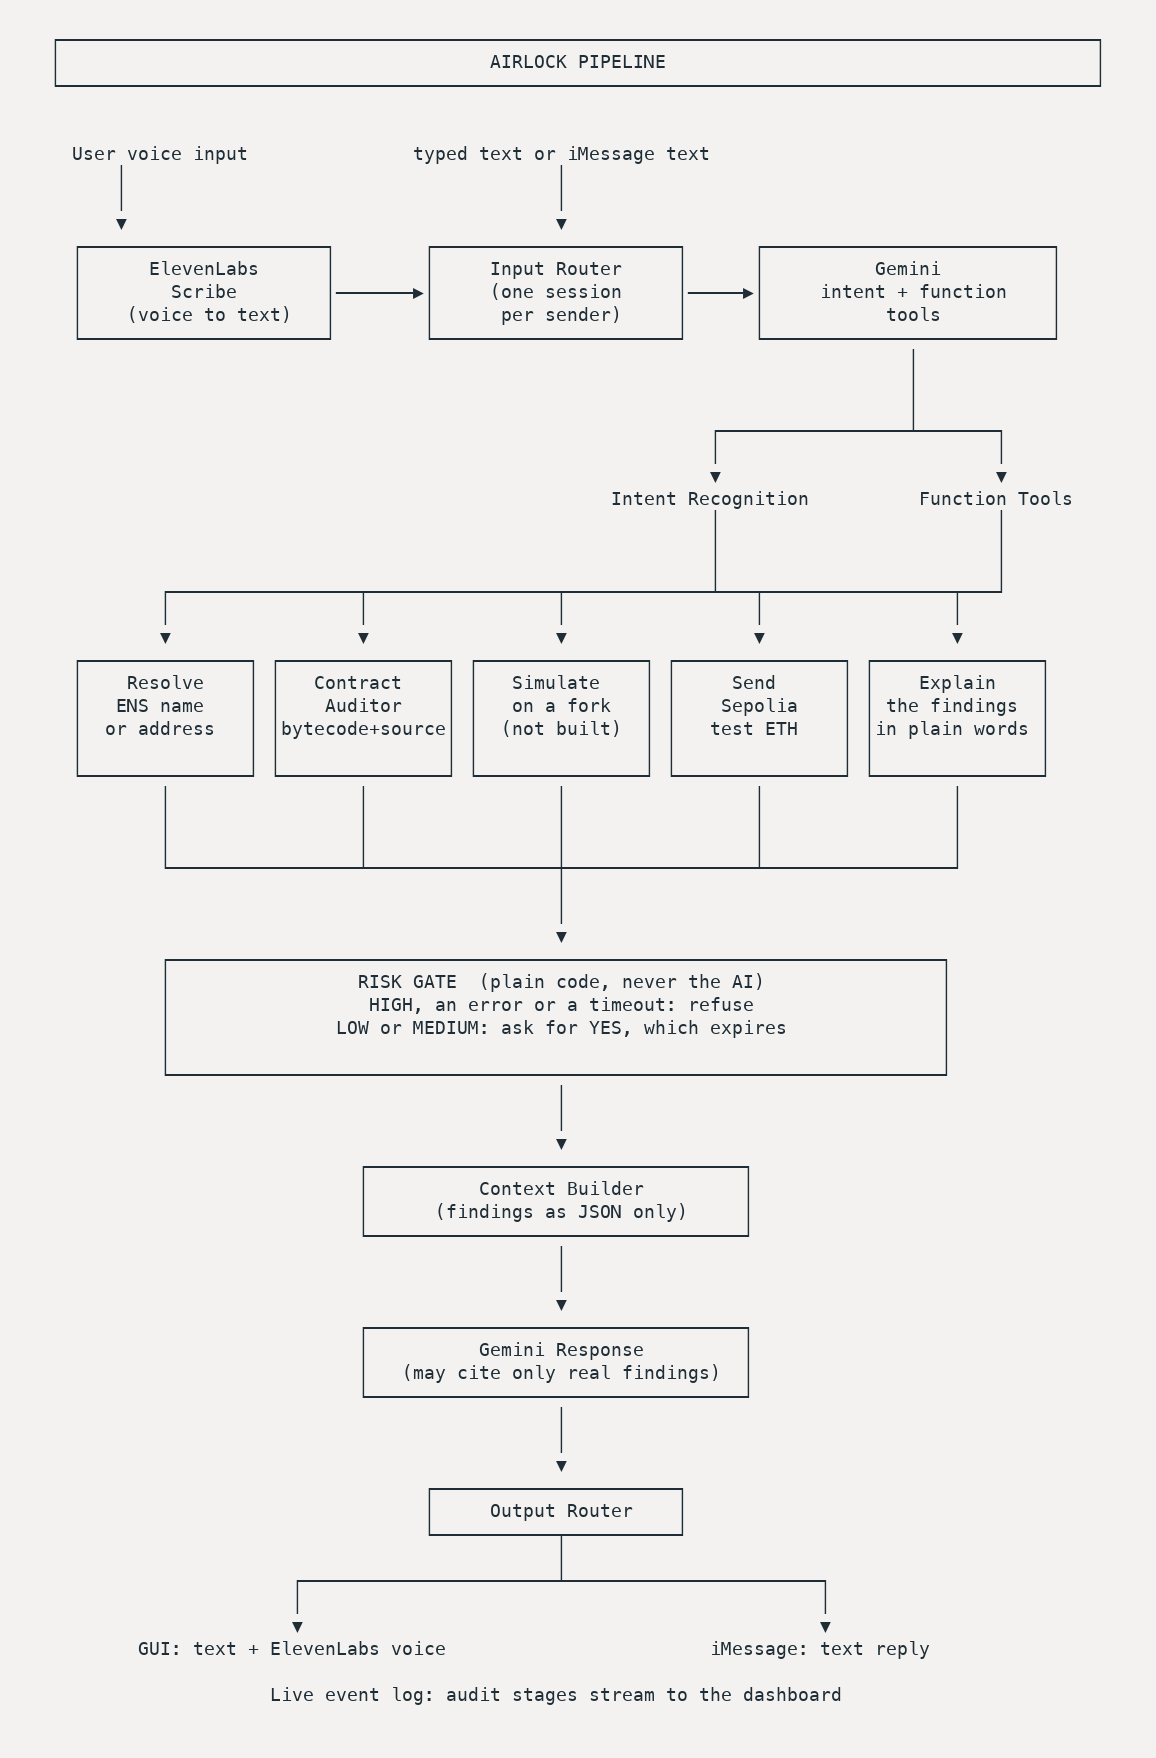
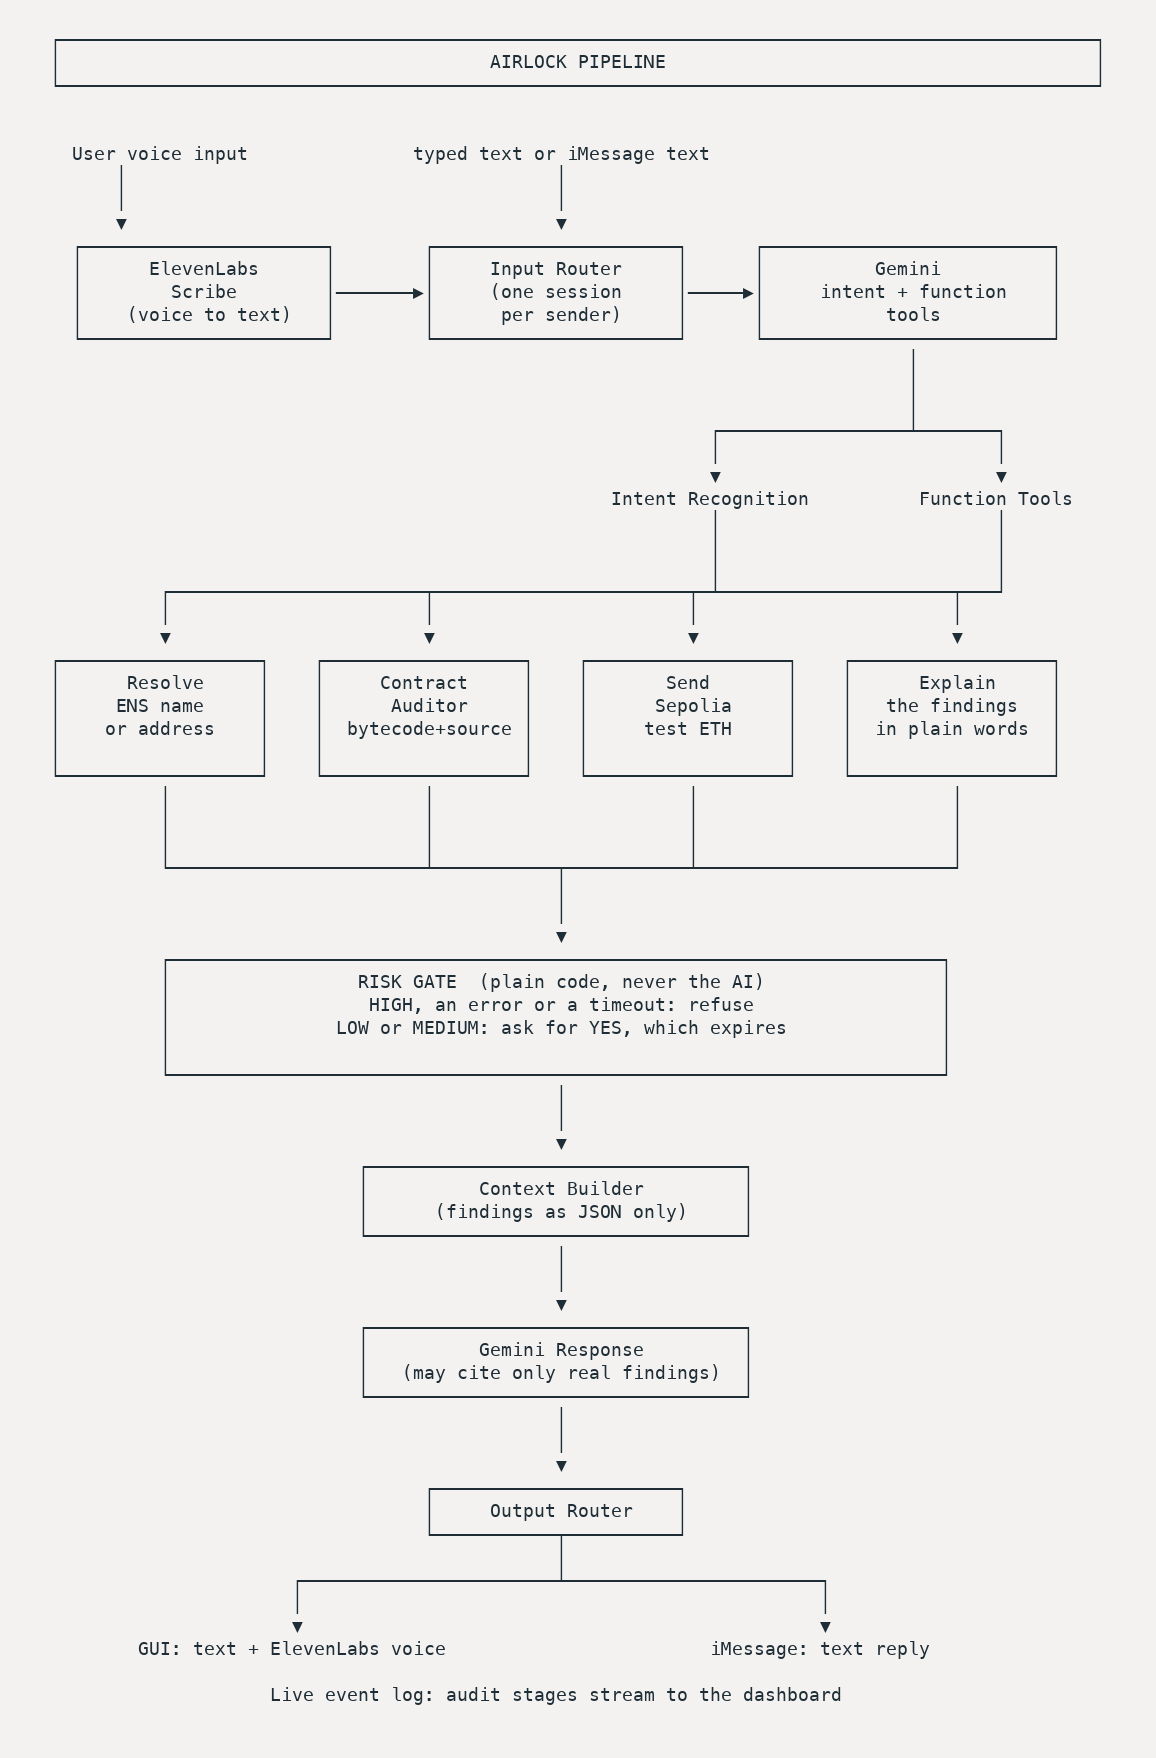
How we work: the structure diagram is real SVG in the page's own colour and font (no picture, card or border); Simulate box and caption removed

Changed region(s): [[0.218, 0.3686, 0.5294, 0.4608], [0.5606, 0.3686, 0.6851, 0.43], [0.9031, 0.3686, 0.9343, 0.43]]

diff --git a/app/components/PipelineDiagram.tsx b/app/components/PipelineDiagram.tsx
@@ -1,0 +1,74 @@
+// Generated by video/diagram/make_pipeline_svg.py from the layout in make_pipeline_image.py. Do not edit by hand.
+// The structure of the project (the pipeline in docs/PLAN.md), drawn in the style of Otto's voice pipeline. It is real SVG
+// in the page's own colour and font, so it follows light and dark mode and has no picture, card or border around it.
+
+export function PipelineDiagram() {
+  return (
+    <svg
+      viewBox="0 0 1128 1730"
+      role="img"
+      aria-label="The Airlock pipeline. Voice goes through ElevenLabs Scribe, and typed or iMessage text goes straight, into the input router, then Gemini for intent and function tools. Four tools follow: resolve, contract auditor, send and explain. Then the risk gate, the context builder, Gemini's response and the output router, which answers in the GUI with voice, or by iMessage text. A live event log streams the audit stages to the dashboard."
+      className="h-auto w-full text-foreground"
+    >
+      <path d="M41.5 25.5L1086.5 25.5 M41.5 71.5L1086.5 71.5 M63.5 232.5L316.5 232.5 M415.5 232.5L668.5 232.5 M745.5 232.5L1042.5 232.5 M327.5 278.5L404.5 278.5 M679.5 278.5L734.5 278.5 M63.5 324.5L316.5 324.5 M415.5 324.5L668.5 324.5 M745.5 324.5L1042.5 324.5 M701.5 416.5L987.5 416.5 M151.5 577.5L987.5 577.5 M41.5 646.5L250.5 646.5 M305.5 646.5L514.5 646.5 M569.5 646.5L778.5 646.5 M833.5 646.5L1042.5 646.5 M41.5 761.5L250.5 761.5 M305.5 761.5L514.5 761.5 M569.5 761.5L778.5 761.5 M833.5 761.5L1042.5 761.5 M151.5 853.5L943.5 853.5 M151.5 945.5L932.5 945.5 M151.5 1060.5L932.5 1060.5 M349.5 1152.5L734.5 1152.5 M349.5 1221.5L734.5 1221.5 M349.5 1313.5L734.5 1313.5 M349.5 1382.5L734.5 1382.5 M415.5 1474.5L668.5 1474.5 M415.5 1520.5L668.5 1520.5 M283.5 1566.5L811.5 1566.5 M41.5 25.5L41.5 71.5 M41.5 646.5L41.5 761.5 M63.5 232.5L63.5 324.5 M107.5 163.5L107.5 186.5 M151.5 577.5L151.5 600.5 M151.5 784.5L151.5 853.5 M151.5 945.5L151.5 1060.5 M250.5 646.5L250.5 761.5 M283.5 1566.5L283.5 1589.5 M305.5 646.5L305.5 761.5 M316.5 232.5L316.5 324.5 M349.5 1152.5L349.5 1221.5 M349.5 1313.5L349.5 1382.5 M415.5 232.5L415.5 324.5 M415.5 577.5L415.5 600.5 M415.5 784.5L415.5 853.5 M415.5 1474.5L415.5 1520.5 M514.5 646.5L514.5 761.5 M547.5 163.5L547.5 186.5 M547.5 853.5L547.5 899.5 M547.5 1083.5L547.5 1106.5 M547.5 1244.5L547.5 1267.5 M547.5 1405.5L547.5 1428.5 M547.5 1520.5L547.5 1566.5 M569.5 646.5L569.5 761.5 M668.5 232.5L668.5 324.5 M668.5 1474.5L668.5 1520.5 M679.5 577.5L679.5 600.5 M679.5 784.5L679.5 853.5 M701.5 416.5L701.5 439.5 M701.5 508.5L701.5 577.5 M734.5 1152.5L734.5 1221.5 M734.5 1313.5L734.5 1382.5 M745.5 232.5L745.5 324.5 M778.5 646.5L778.5 761.5 M811.5 1566.5L811.5 1589.5 M833.5 646.5L833.5 761.5 M899.5 347.5L899.5 416.5 M932.5 945.5L932.5 1060.5 M943.5 577.5L943.5 600.5 M943.5 784.5L943.5 853.5 M987.5 416.5L987.5 439.5 M987.5 508.5L987.5 577.5 M1042.5 232.5L1042.5 324.5 M1042.5 646.5L1042.5 761.5 M1086.5 25.5L1086.5 71.5" fill="none" stroke="currentColor" strokeWidth={1.6} strokeLinecap="square" />
+      <g fill="currentColor">
+        <polygon points="101.5,204.5 113.5,204.5 107.5,215.5" />
+        <polygon points="541.5,204.5 553.5,204.5 547.5,215.5" />
+        <polygon points="399.5,272.5 399.5,284.5 410.5,278.5" />
+        <polygon points="729.5,272.5 729.5,284.5 740.5,278.5" />
+        <polygon points="695.5,457.5 707.5,457.5 701.5,468.5" />
+        <polygon points="981.5,457.5 993.5,457.5 987.5,468.5" />
+        <polygon points="145.5,618.5 157.5,618.5 151.5,629.5" />
+        <polygon points="409.5,618.5 421.5,618.5 415.5,629.5" />
+        <polygon points="673.5,618.5 685.5,618.5 679.5,629.5" />
+        <polygon points="937.5,618.5 949.5,618.5 943.5,629.5" />
+        <polygon points="541.5,917.5 553.5,917.5 547.5,928.5" />
+        <polygon points="541.5,1124.5 553.5,1124.5 547.5,1135.5" />
+        <polygon points="541.5,1285.5 553.5,1285.5 547.5,1296.5" />
+        <polygon points="541.5,1446.5 553.5,1446.5 547.5,1457.5" />
+        <polygon points="277.5,1607.5 289.5,1607.5 283.5,1618.5" />
+        <polygon points="805.5,1607.5 817.5,1607.5 811.5,1618.5" />
+      </g>
+      <g fill="currentColor" fontSize={16.5} fontFamily="var(--font-geist-mono), ui-monospace, Menlo, monospace">
+        <text x="476.0" y="53.5" textLength="176" lengthAdjust="spacing">AIRLOCK PIPELINE</text>
+        <text x="58.0" y="145.5" textLength="176" lengthAdjust="spacing">User voice input</text>
+        <text x="399.0" y="145.5" textLength="297" lengthAdjust="spacing">typed text or iMessage text</text>
+        <text x="135.0" y="260.5" textLength="110" lengthAdjust="spacing">ElevenLabs</text>
+        <text x="476.0" y="260.5" textLength="132" lengthAdjust="spacing">Input Router</text>
+        <text x="861.0" y="260.5" textLength="66" lengthAdjust="spacing">Gemini</text>
+        <text x="157.0" y="283.5" textLength="66" lengthAdjust="spacing">Scribe</text>
+        <text x="476.0" y="283.5" textLength="132" lengthAdjust="spacing">(one session</text>
+        <text x="806.0" y="283.5" textLength="187" lengthAdjust="spacing">intent + function</text>
+        <text x="113.0" y="306.5" textLength="165" lengthAdjust="spacing">(voice to text)</text>
+        <text x="487.0" y="306.5" textLength="121" lengthAdjust="spacing">per sender)</text>
+        <text x="872.0" y="306.5" textLength="55" lengthAdjust="spacing">tools</text>
+        <text x="597.0" y="490.5" textLength="198" lengthAdjust="spacing">Intent Recognition</text>
+        <text x="905.0" y="490.5" textLength="154" lengthAdjust="spacing">Function Tools</text>
+        <text x="113.0" y="674.5" textLength="77" lengthAdjust="spacing">Resolve</text>
+        <text x="366.0" y="674.5" textLength="88" lengthAdjust="spacing">Contract</text>
+        <text x="652.0" y="674.5" textLength="44" lengthAdjust="spacing">Send</text>
+        <text x="905.0" y="674.5" textLength="77" lengthAdjust="spacing">Explain</text>
+        <text x="102.0" y="697.5" textLength="88" lengthAdjust="spacing">ENS name</text>
+        <text x="377.0" y="697.5" textLength="77" lengthAdjust="spacing">Auditor</text>
+        <text x="641.0" y="697.5" textLength="77" lengthAdjust="spacing">Sepolia</text>
+        <text x="872.0" y="697.5" textLength="132" lengthAdjust="spacing">the findings</text>
+        <text x="91.0" y="720.5" textLength="110" lengthAdjust="spacing">or address</text>
+        <text x="333.0" y="720.5" textLength="165" lengthAdjust="spacing">bytecode+source</text>
+        <text x="630.0" y="720.5" textLength="88" lengthAdjust="spacing">test ETH</text>
+        <text x="861.0" y="720.5" textLength="154" lengthAdjust="spacing">in plain words</text>
+        <text x="344.0" y="973.5" textLength="99" lengthAdjust="spacing">RISK GATE</text>
+        <text x="465.0" y="973.5" textLength="286" lengthAdjust="spacing">(plain code, never the AI)</text>
+        <text x="355.0" y="996.5" textLength="385" lengthAdjust="spacing">HIGH, an error or a timeout: refuse</text>
+        <text x="322.0" y="1019.5" textLength="451" lengthAdjust="spacing">LOW or MEDIUM: ask for YES, which expires</text>
+        <text x="465.0" y="1180.5" textLength="165" lengthAdjust="spacing">Context Builder</text>
+        <text x="421.0" y="1203.5" textLength="253" lengthAdjust="spacing">(findings as JSON only)</text>
+        <text x="465.0" y="1341.5" textLength="165" lengthAdjust="spacing">Gemini Response</text>
+        <text x="388.0" y="1364.5" textLength="319" lengthAdjust="spacing">(may cite only real findings)</text>
+        <text x="476.0" y="1502.5" textLength="143" lengthAdjust="spacing">Output Router</text>
+        <text x="124.0" y="1640.5" textLength="308" lengthAdjust="spacing">GUI: text + ElevenLabs voice</text>
+        <text x="696.0" y="1640.5" textLength="220" lengthAdjust="spacing">iMessage: text reply</text>
+        <text x="256.0" y="1686.5" textLength="572" lengthAdjust="spacing">Live event log: audit stages stream to the dashboard</text>
+      </g>
+    </svg>
+  );
+}

diff --git a/app/components/HowWeWork.tsx b/app/components/HowWeWork.tsx
@@ -1,6 +1,7 @@
 "use client";
 
 import { useState } from "react";
+import { PipelineDiagram } from "./PipelineDiagram";
 
 // The text judges and readers get. Kept in one place so the page and the copy button never drift apart.
 export const SUBMISSION_PARAGRAPH =
@@ -43,20 +44,14 @@ function Label({ children }: { children: React.ReactNode }) {
 }
 
 
-// The structure of the project: the pipeline from docs/PLAN.md, drawn in the same box-and-arrow style as Otto's voice pipeline.
-// The picture is public/airlock-pipeline.png (made by video/diagram/make_pipeline_image.py).
+// The structure of the project: the pipeline from docs/PLAN.md, as real SVG in the page's own colour and font.
 function Structure() {
   return (
     <section aria-label="The structure of the project" className="space-y-4">
-      <div className="flex items-end justify-between">
-        <Label>The structure</Label>
-        <a href="/airlock-pipeline.png" download="Airlock pipeline.png" className="rounded-lg border border-border px-3 py-1.5 text-sm hover:bg-accent">Download the picture</a>
-      </div>
-      {/* A transparent picture with no card around it, so it sits on the page like the rest. In dark mode the ink is flipped to light. */}
-      <figure className="mx-auto w-full max-w-3xl">
-        {/* eslint-disable-next-line @next/next/no-img-element */}
-        <img src="/airlock-pipeline.png" alt="The Airlock pipeline: voice, text or iMessage input goes through the input router to Gemini, then to five tools (resolve, contract auditor, simulate, send, explain), then to the risk gate, the context builder, Gemini's response and the output router, which answers in the GUI or by iMessage." className="h-auto w-full [.dark_&]:invert" />
-        <figcaption className="mt-4 text-center text-xs text-muted-foreground">Drawn from docs/PLAN.md. The model never decides whether money moves; the gate does. Simulate is the one box that was not built.</figcaption>
+      <Label>The structure</Label>
+      <figure className="mx-auto w-full max-w-4xl">
+        <PipelineDiagram />
+        <figcaption className="mt-4 text-center text-xs text-muted-foreground">Drawn from docs/PLAN.md. The model never decides whether money moves; the gate does.</figcaption>
       </figure>
     </section>
   );

diff --git a/video/diagram/make_pipeline_svg.py b/video/diagram/make_pipeline_svg.py
@@ -1,0 +1,103 @@
+#!/usr/bin/env python3
+"""Turns the pipeline layout in make_pipeline_image.py into a React component (app/components/PipelineDiagram.tsx):
+real SVG lines and text in the page's own colour and font, so the diagram is part of the website, not a picture.
+Run: python3 video/diagram/make_pipeline_svg.py"""
+import os
+
+HERE = os.path.dirname(os.path.abspath(__file__))
+src = open(os.path.join(HERE, "make_pipeline_image.py")).read().split("# ---- render ----")[0]
+ns = {}
+exec(src, ns)  # builds `lines` (direction bits per cell) and `text` (one character per cell)
+lines, text, COLS, ROWS = ns["lines"], ns["text"], ns["COLS"], ns["ROWS"]
+E, S = ns["E"], ns["S"]
+
+CW, CH, PAD = 11, 23, 14
+W, H = COLS * CW + PAD * 2, ROWS * CH + PAD * 2
+cx = lambda x: PAD + x * CW + CW / 2
+cy = lambda y: PAD + y * CH + CH / 2
+
+# ---- line segments, merged into long runs ----
+segs = []
+for y in range(ROWS):  # horizontal runs
+    x = 0
+    while x < COLS:
+        if lines.get((x, y), 0) & E:
+            x0 = x
+            while lines.get((x, y), 0) & E:
+                x += 1
+            segs.append((cx(x0), cy(y), cx(x), cy(y)))
+        else:
+            x += 1
+for x in range(COLS):  # vertical runs
+    y = 0
+    while y < ROWS:
+        if lines.get((x, y), 0) & S:
+            y0 = y
+            while lines.get((x, y), 0) & S:
+                y += 1
+            segs.append((cx(x), cy(y0), cx(x), cy(y)))
+        else:
+            y += 1
+path = " ".join(f"M{a:.1f} {b:.1f}L{c:.1f} {d:.1f}" for a, b, c, d in segs)
+
+# ---- arrows and text runs ----
+arrows = []
+runs = []
+for y in range(ROWS):
+    x = 0
+    while x < COLS:
+        ch = text.get((x, y))
+        if ch in ("▼", "▶"):
+            arrows.append((ch, x, y))
+            x += 1
+        elif ch:
+            x0, s = x, ""
+            while text.get((x, y)) and text[(x, y)] not in ("▼", "▶"):
+                s += text[(x, y)]
+                x += 1
+            runs.append((x0, y, s))
+        else:
+            x += 1
+
+poly = []
+for ch, x, y in arrows:
+    a, b = cx(x), cy(y)
+    pts = [(a - 6, b - 5), (a + 6, b - 5), (a, b + 6)] if ch == "▼" else [(a - 5, b - 6), (a - 5, b + 6), (a + 6, b)]
+    poly.append(" ".join(f"{p:.1f},{q:.1f}" for p, q in pts))
+
+import re
+
+texts = []
+for x0, y, s in runs:
+    # SVG collapses runs of spaces, which would throw off the spacing. So each stretch of words joined by single
+    # spaces is its own <text>, placed at its exact column, with no leading or trailing space.
+    for m in re.finditer(r"\S+(?: \S+)*", s):
+        seg = m.group(0)
+        texts.append(f'        <text x="{PAD + (x0 + m.start()) * CW:.1f}" y="{PAD + y * CH + 16.5:.1f}" textLength="{len(seg) * CW}" lengthAdjust="spacing">{seg}</text>')
+
+tsx = f'''// Generated by video/diagram/make_pipeline_svg.py from the layout in make_pipeline_image.py. Do not edit by hand.
+// The structure of the project (the pipeline in docs/PLAN.md), drawn in the style of Otto's voice pipeline. It is real SVG
+// in the page's own colour and font, so it follows light and dark mode and has no picture, card or border around it.
+
+export function PipelineDiagram() {{
+  return (
+    <svg
+      viewBox="0 0 {W} {H}"
+      role="img"
+      aria-label="The Airlock pipeline. Voice goes through ElevenLabs Scribe, and typed or iMessage text goes straight, into the input router, then Gemini for intent and function tools. Four tools follow: resolve, contract auditor, send and explain. Then the risk gate, the context builder, Gemini's response and the output router, which answers in the GUI with voice, or by iMessage text. A live event log streams the audit stages to the dashboard."
+      className="h-auto w-full text-foreground"
+    >
+      <path d="{path}" fill="none" stroke="currentColor" strokeWidth={{1.6}} strokeLinecap="square" />
+      <g fill="currentColor">
+{chr(10).join(f'        <polygon points="{p}" />' for p in poly)}
+      </g>
+      <g fill="currentColor" fontSize={{16.5}} fontFamily="var(--font-geist-mono), ui-monospace, Menlo, monospace">
+{chr(10).join(texts)}
+      </g>
+    </svg>
+  );
+}}
+'''
+out = os.path.join(HERE, "..", "..", "app", "components", "PipelineDiagram.tsx")
+open(out, "w").write(tsx)
+print("wrote", os.path.normpath(out), f"{W}x{H}", len(segs), "line runs,", len(poly), "arrows,", len(texts), "text runs")

diff --git a/video/diagram/make_pipeline_image.py b/video/diagram/make_pipeline_image.py
@@ -74,17 +74,15 @@ label(62, 20, "Intent Recognition", center=True)
 label(88, 20, "Function Tools", center=True)
 vline(62, 21, 24); vline(88, 21, 24)
 hline(24, 12, 88)
-for cx in (12, 30, 48, 66, 84):
+for cx in (12, 36, 60, 84):
     vline(cx, 24, 25); arrow_down(cx, 26)
 
 # ---- tools ----
-TOOLS = [(4, ["Resolve", "ENS name", "or address"]), (22, ["Contract", "Auditor", "bytecode+source"]), (40, ["Simulate", "on a fork", "(not built)"]), (58, ["Send", "Sepolia", "test ETH"]), (76, ["Explain", "the findings", "in plain words"])]
+TOOLS = [(2, ["Resolve", "ENS name", "or address"]), (26, ["Contract", "Auditor", "bytecode+source"]), (50, ["Send", "Sepolia", "test ETH"]), (74, ["Explain", "the findings", "in plain words"])]
 for x, rows in TOOLS:
-    box(x, 27, 17, 6, rows)
-for cx in (12, 30, 48, 66, 84):
-    pass
+    box(x, 27, 20, 6, rows)
 for x, _ in TOOLS:
-    vline(x + 8, 33, 36)
+    vline(x + 10, 33, 36)
 hline(36, 12, 84)
 vline(48, 36, 38); arrow_down(48, 39)
 
